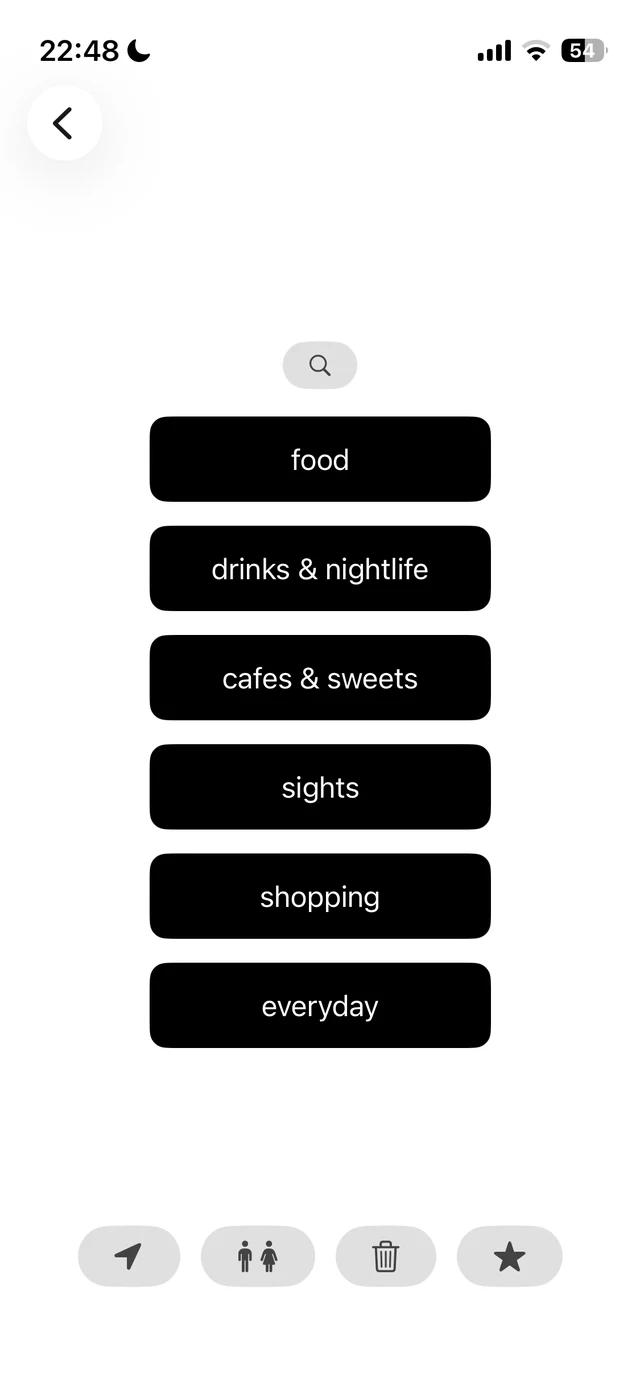
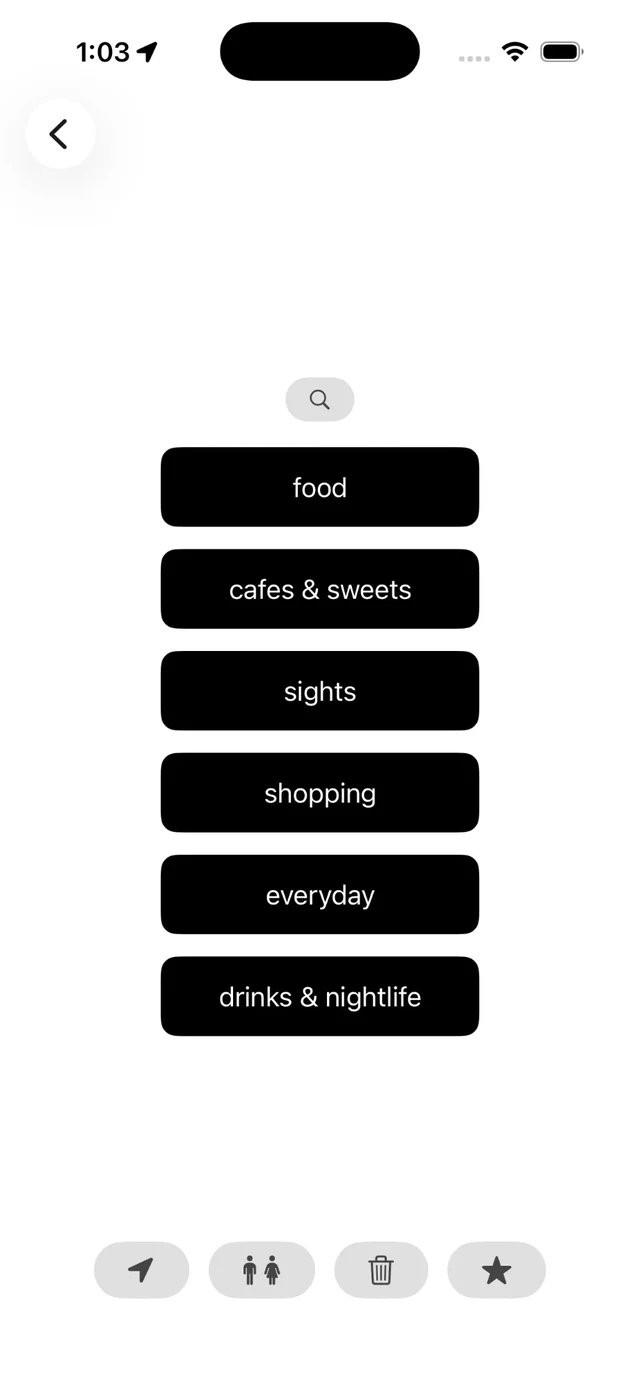
Update What's Nearby screen to the current app
Claude-Session: https://claude.ai/code/session_01FxSsQnwZVufiE1aJZBi47o

diff --git a/development.html b/development.html
@@ -36,7 +36,7 @@
           Discover hidden local gems just steps away, from quiet cafes and bookshops to shrines
           and sentos, based on where you're staying.
         </p>
-        <p class="chips"><span>food</span><span>drinks &amp; nightlife</span><span>cafes &amp; sweets</span><span>sights</span><span>shopping</span><span>everyday</span></p>
+        <p class="chips"><span>food</span><span>cafes &amp; sweets</span><span>sights</span><span>shopping</span><span>everyday</span><span>drinks &amp; nightlife</span></p>
         <p>
           Pick a category, or search for something like ramen, and see top picks with a photo of
           the storefront, whether it's open now, how far it is, and its rating. Switch between a
@@ -44,7 +44,7 @@
         </p>
       </div>
       <div class="phones">
-        <div class="phone"><img src="images/app-nearby.webp" width="640" height="1386" loading="lazy" alt="Sanpo's What's Nearby screen with categories: food, drinks and nightlife, cafes and sweets, sights, shopping and everyday" /></div>
+        <div class="phone"><img src="images/app-nearby.webp" width="640" height="1391" loading="lazy" alt="Sanpo's What's Nearby screen with categories: food, cafes and sweets, sights, shopping, everyday, and drinks and nightlife" /></div>
         <div class="phone"><img src="images/app-nearby-results.webp" width="640" height="1391" loading="lazy" alt="Sanpo's ramen results as a list of top picks, each with a storefront photo, open now, distance and rating" /></div>
       </div>
     </article>

diff --git a/demo.js b/demo.js
@@ -18,9 +18,8 @@
       img: 'images/app-nearby.webp',
       alt: "Sanpo What's Nearby categories",
       hot: [
-        { label: 'Back', box: [40, 123, 108, 108], to: 'home' },
-        { label: 'Search', box: [408, 493, 108, 68], to: 'results' },
-        { label: 'Saved places', box: [660, 1769, 152, 88], to: 'saved' }
+        { label: 'Back', box: [37, 142, 100, 100], to: 'home' },
+        { label: 'Saved places', box: [643, 1785, 142, 80], to: 'saved' }
       ]
     },
     results: {
